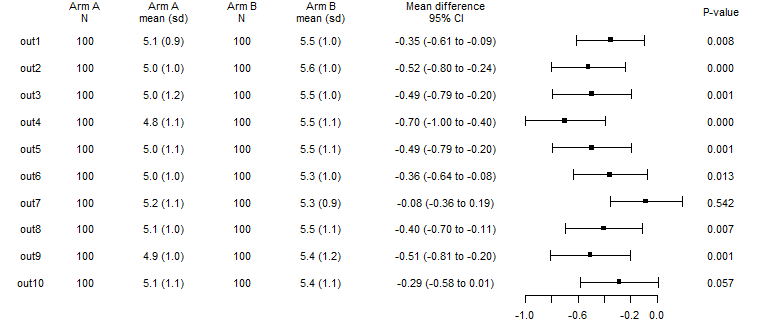
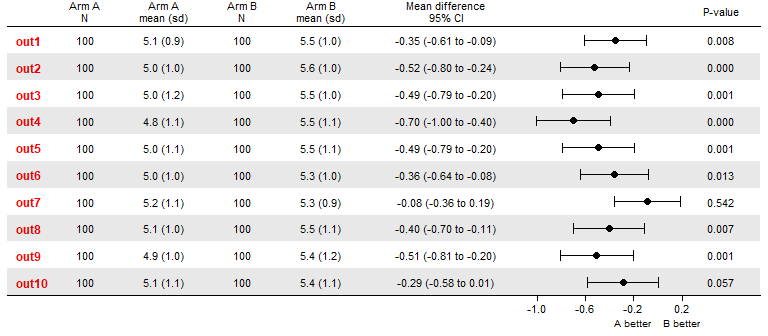
update readme

diff --git a/README.md b/README.md
@@ -379,13 +379,12 @@ The modifying elements can be piped. For example to reproduce the
 **fobj** from above:
 
 ``` r
-
-fobj<-genfobj(dat = forplotdata,
+fobjnew<-genfobj(dat = forplotdata,
   layout = c("t","t","t","t","t","t","f","t"),
   lwidth = c(0.3,0.4,0.6,0.4,0.6,1,1,0.5),
   lheight = c(0.1,1,0.15))
 
-fobj |>
+fobjnew |>
   gridlines() |>
   stripes() |>
   t_options(item = c("vlabel"), cex = 1.1, font = 2, col = "red", x=0.2, adj=0) |>
@@ -401,13 +400,14 @@ fobj |>
 ### Arrowheads
 
 When using *xlim* via *f_axis*, x-axis limits that are narrower then the
-confidence limits can be set (which is usually not recommended as it can
-be misleading). The cap at the end of the confidence interval is then
-not plotted (as it is outside of the plotting region). However, to make
-that clearer, directional arrowheads can be added using options
-*f_arrows*. To have different heads on both sides, the arrow has to be
-drawn twice, with code 1 and 2. The helper function *f_cutarrows* helps
-with that:
+confidence limits can be set (even though that is usually not
+recommended). The cap at the end of the confidence interval is then not
+plotted (as it is outside of the plotting region). However, directional
+arrowheads can help to make the distinction more prominent. Arrowheads
+can be modified via function *f_arrows* but it is not completely
+straightforward because arrows have to be drawn twice to have different
+heads on both sides (e.g. with code 1 and 2 and angles 30 and 90). The
+helper function *f_cutarrows* does that automatically:
 
 ``` r
 # Modify data to generate some very wide limits:
@@ -474,7 +474,6 @@ Note that an empty character has to be included to leave column 1 and 8
 empty. And the y is also modified to place the label it a bit higher.
 
 ``` r
-
 fobj<-header(fobj = fobj,
   labels = c("","Arm A\nN","Arm A\nmean (sd)","Arm B\nN","Arm B\nmean (sd)",
     "Mean difference\n95% CI","","P-value"),
@@ -490,7 +489,6 @@ columns. We would then change the layout to include one label twice. And
 remove the empty label for the forest column.
 
 ``` r
-
 fobj<-header(fobj = fobj, hlayout = c(1,2,3,4,5,6,6,7),
   labels = c("","Arm A\nN","Arm A\nmean (sd)","Arm B\nN","Arm B\nmean (sd)",
     "Mean difference 95% CI","P-value"))
@@ -507,7 +505,6 @@ can use further
 options.
 
 ``` r
-
 fobj<-header(fobj=fobj, hlayout = c(1,2,2,3,3,4,4,5),  headernr = 1,
     labels=c("","Arm A","Arm B","Mean diff (95% CI)","P-value"),
     y=0.9)
@@ -582,7 +579,6 @@ and
 [graphics::axis()](https://stat.ethz.ch/R-manual/R-devel/library/graphics/html/axis.html).
 
 ``` r
-
 fobj<-genfobj(dat = forplotdata, obs = forplotdata_bp,
   layout = c("t","t","t","t","t","b","t","f","t"),
   lwidths = c(0.6,0.4,0.6,0.4,0.6,1,1,1,0.5))
@@ -595,7 +591,6 @@ plotfobj(fobj)
 Adding header gridlines and stripes:
 
 ``` r
-
 fobj<-gridlines(fobj)
 
 fobj<-stripes(fobj)
@@ -619,7 +614,6 @@ Density plots can be specified using layout item *d* and depend on the
 same data with the observations as the boxplots.
 
 ``` r
-
 fobj<-genfobj(dat = forplotdata, obs = forplotdata_bp,
   layout = c("t","t","t","t","t","b","d","t","f","t"),
   lwidths = c(0.3,0.4,0.6,0.4,0.6,1,1,1,1,0.5))
@@ -696,7 +690,6 @@ arms). The “s” items then contains several *points* elements.
 For example:
 
 ``` r
-
 fobj<-genfobj(dat = forplotdata_prop,
   layout = c("t","t","t","t","t","s2","t","f","t"),
   lwidths = c(0.3,0.4,0.6,0.4,0.6,1.0,1.2,1,0.5))
@@ -719,7 +712,6 @@ using *pointnr* (e.g. to specify colors).
 Left and right borders can be added via *s_borders*.
 
 ``` r
-
 fobj<-s_axis(fobj=fobj, xlim = c(0,1), 
   at = seq(0,1,by=0.25), labels = seq(0,100,by=25))
 